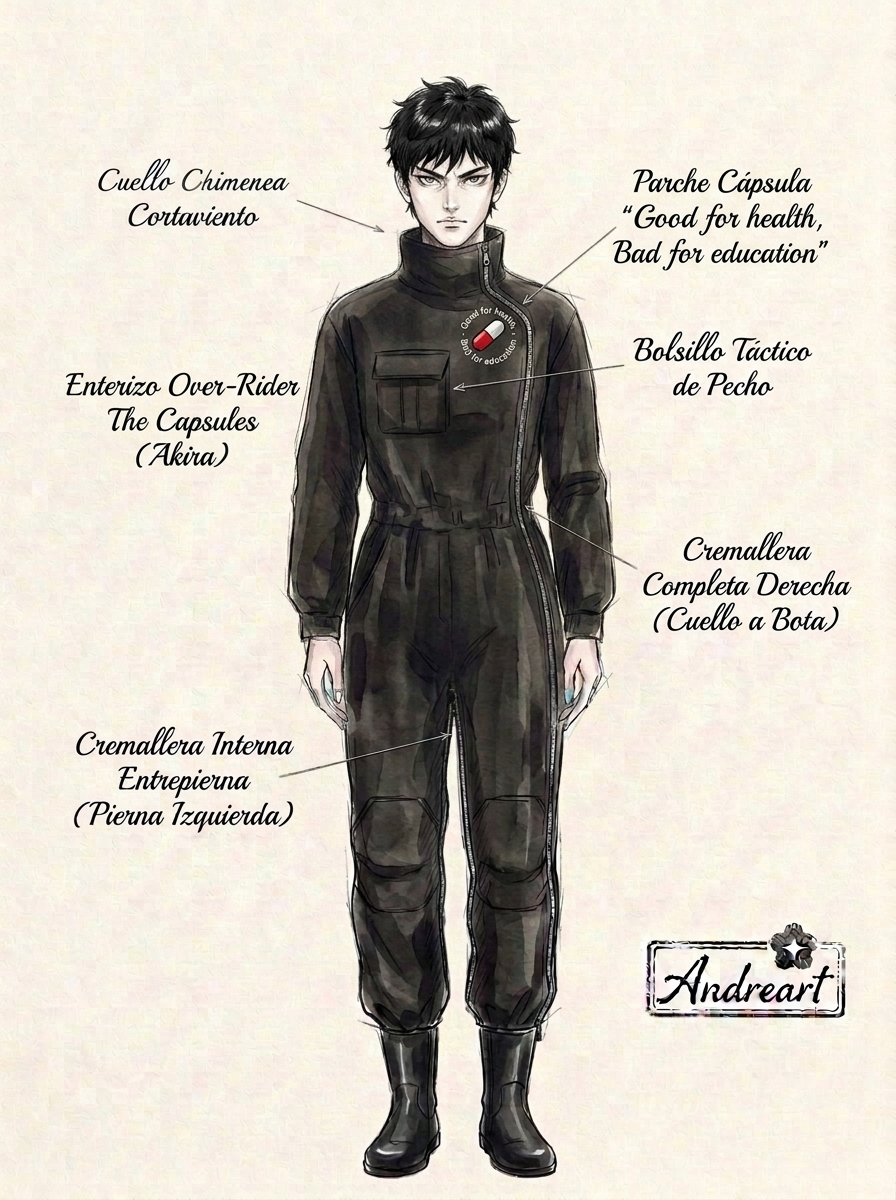
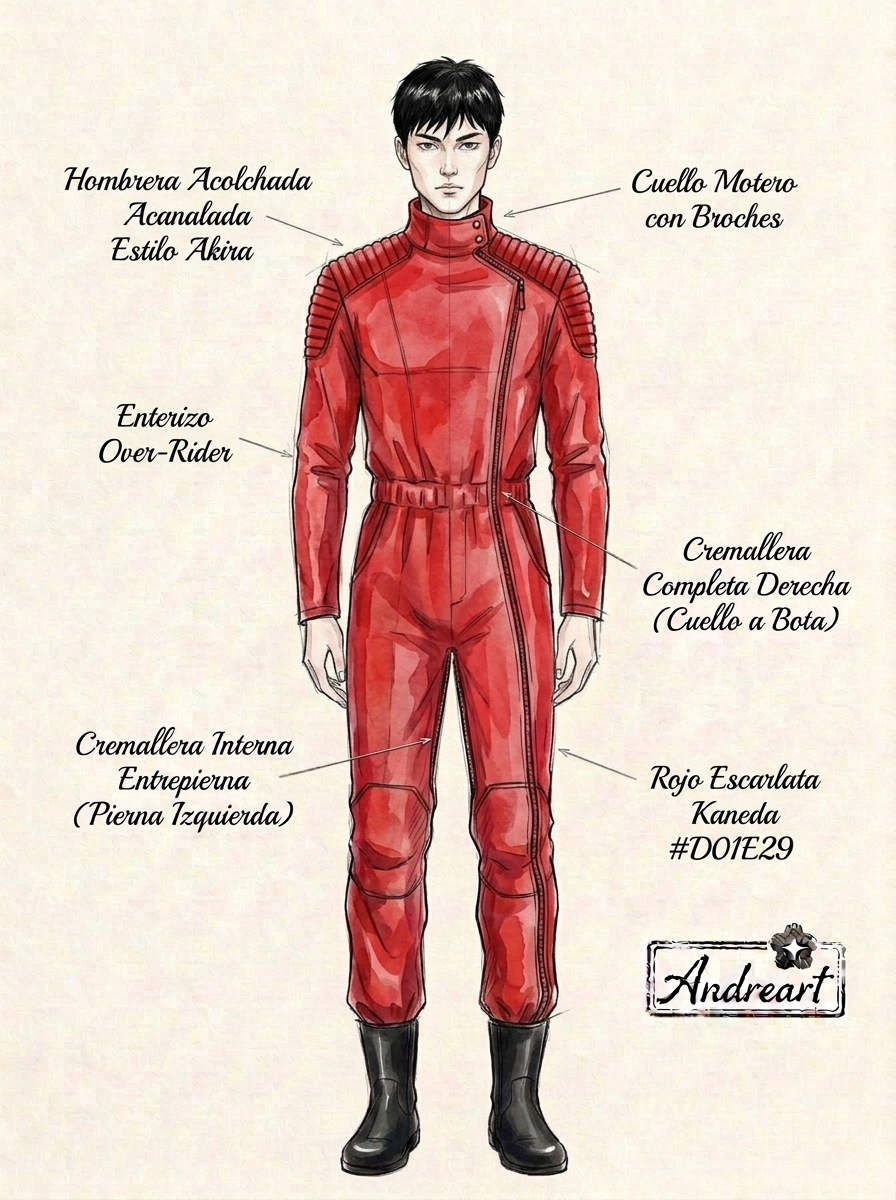
feat(over-rider-bosozoku): regenerar figurines The Capsules (Akira) en rojo escarlata frente y espalda
- Actualizar 03-figurin-capsules-akira-frente.jpg en Rojo Escarlata Kaneda (#D01E29) con hombreras acanaladas estilo chaqueta Akira
- Incorporar 04-figurin-capsules-akira-espalda.jpg con gran emblema dorsal de la píldora 'Good for health, Bad for education' y drop-seat
- Registrar referencia refe-kaneda-akira-suit.jpg en references/
- Archivar versión negra previa en assets/.archive/
- Sincronizar SPEC.md, manifest.json e index.ts

diff --git a/Andreart Brain/01 Brand Context/Colecciones/Over-Rider Bosozoku/index.ts b/Andreart Brain/01 Brand Context/Colecciones/Over-Rider Bosozoku/index.ts
@@ -57,8 +57,8 @@ export const GARMENTS: CollectionGarment[] = [
     name: 'Enterizo Over-Rider The Capsules',
     sku: 'ANDR-OVR-AKI-01',
     category: 'Prenda Enteriza Exterior (Oversuit)',
-    textile: 'Cordura / Nylon Oxford 600D impermeable con forro térmico capitonado desmontable',
-    fit: 'Corte ergonómico precurvado para moto, cremallera completa lateral derecha (cuello a bota), cremallera interna de entrepierna en pierna izquierda, drop-seat trasero y emblema cápsula Akira reflectivo'
+    textile: 'Cordura / Nylon Oxford 600D impermeable en Rojo Escarlata Kaneda (#D01E29) con forro térmico capitonado desmontable',
+    fit: 'Corte ergonómico precurvado para moto en rojo escarlata, hombreras acolchadas acanaladas estilo Akira, cremallera completa lateral derecha (cuello a bota), cremallera interna de entrepierna en pierna izquierda, drop-seat trasero y gran emblema dorsal de la píldora "Good for health, Bad for education"'
   }
 ];
 
@@ -93,15 +93,33 @@ export const ASSETS: Record<string, CollectionAsset> = {
     path: './assets/03-figurin-capsules-akira-frente.jpg',
     category: 'figurine',
     garment: 'Enterizo Over-Rider The Capsules',
-    view: 'frente-pasarela-hombre',
-    description: 'Figurín de autor a mano alzada en acuarela sobre papel marfil (#F6F4EE) con modelo masculino inspirado en Kaneda luciendo el enterizo técnico motero en Jet Black (#0D0D0E), parche The Capsules ("Good for health, Bad for education"), cremallera completa lateral derecha (cuello a bota), cremallera interna de entrepierna en pierna izquierda, llamadas técnicas y sello Andreart.',
-    sourceReference: './references/refe-vista-frontal-puesta.jpg, ./references/refe-apertura-total-capullo.jpg',
+    view: 'frente-pasarela-hombre-rojo',
+    description: 'Figurín de autor a mano alzada en acuarela roja escarlata (#D01E29) sobre papel marfil (#F6F4EE) con modelo masculino inspirado en Kaneda luciendo el enterizo técnico motero, hombreras acolchadas acanaladas estilo Akira, cremallera completa lateral derecha (cuello a bota), cremallera interna de entrepierna en pierna izquierda, llamadas técnicas y sello Andreart.',
+    sourceReference: './references/refe-kaneda-akira-suit.jpg, ./references/refe-vista-frontal-puesta.jpg',
+    status: 'active',
+    approved: true
+  },
+  '04-figurin-capsules-akira-espalda': {
+    id: '04-figurin-capsules-akira-espalda',
+    filename: '04-figurin-capsules-akira-espalda.jpg',
+    path: './assets/04-figurin-capsules-akira-espalda.jpg',
+    category: 'figurine',
+    garment: 'Enterizo Over-Rider The Capsules',
+    view: 'espalda-dorsal-hombre-rojo',
+    description: 'Figurín de autor a mano alzada en acuarela dorsal mostrando a gran escala en el centro de la espalda el emblemático diseño circular de la píldora cápsula con el lema "Good for health, Bad for education", hombreras acanaladas, canesú con capota escamoteable y solapa lumbar drop-seat con banda reflectiva.',
+    sourceReference: './references/refe-kaneda-akira-suit.jpg, ./references/refe-dropseat-lumbar-1.jpg',
     status: 'active',
     approved: true
   }
 };
 
 export const REFERENCES: Record<string, CollectionReference> = {
+  'refe-kaneda-akira-suit': {
+    filename: 'refe-kaneda-akira-suit.jpg',
+    path: './references/refe-kaneda-akira-suit.jpg',
+    type: 'character-design-reference',
+    description: 'Referencia oficial de Shotaro Kaneda (Akira): traje y chaqueta en rojo escarlata, hombreras acolchadas acanaladas y cuello motero con broches provista por el usuario.'
+  },
   'refe-apertura-paso-1': {
     filename: 'refe-apertura-paso-1.jpg',
     path: './references/refe-apertura-paso-1.jpg',

diff --git a/Andreart Brain/01 Brand Context/Colecciones/Over-Rider Bosozoku/SPEC.md b/Andreart Brain/01 Brand Context/Colecciones/Over-Rider Bosozoku/SPEC.md
@@ -55,10 +55,10 @@ Diseñada para el motociclista contemporáneo que rechaza los uniformes genéric
 
 | Tono / Elemento | Código Hex | Aplicación Textil y Acabado | Función / Sentido en la Prenda |
 | :--- | :--- | :--- | :--- |
-| **Total Jet Black** | `#0D0D0E` | Cordura / Nylon Oxford 600D mate impermeable | Base estructural exterior monocromática de alta resistencia a la abrasión |
+| **Total Jet Black** | `#0D0D0E` | Cordura / Nylon Oxford 600D mate impermeable | Base estructural exterior para la Edición Toman Shodai (Tokyo Revengers) |
+| **Rojo Escarlata Kaneda** | `#D01E29` | Cordura / Nylon Oxford 600D impermeable rojo | Base estructural exterior completa para la Edición The Capsules (Akira) |
 | **Negro Azabache Satinado** | `#121214` | Tafetán de microfibra acolchado en rombos (forro) | Forro térmico interior desmontable suave al deslizamiento |
 | **Gris Reflectivo Vial** | `#9E9E9E` / `#FFFFFF` | Serigrafía reflectiva microprismática de alta densidad | Kanjis Toman, cápsula Akira y franja horizontal lumbar de seguridad nocturna |
-| **Rojo Escarlata Akira** | `#D01E29` | Acentos en la mitad de la píldora y vivos de contraste | Homenaje visual a la chaqueta de Kaneda / The Capsules |
 | **Níquel Oscuro Mate** | `#262628` | Cremalleras impermeables termoselladas y tiradores | Herrajes técnicos discretos anticorrosión |
 
 ---
@@ -67,8 +67,8 @@ Diseñada para el motociclista contemporáneo que rechaza los uniformes genéric
 
 | Modelo | Referencia SKU | Inspiración / Universo | Gráficos y Personalización | Arquitectura y Funcionalidad |
 | :--- | :--- | :--- | :--- | :--- |
-| **Enterizo Over-Rider Toman Shodai** | `ANDR-OVR-TOM-01` | Manjirō Sano / Tokyo Revengers | Espalda: Kanjis oficiales Toman ("初代", "東京卍會", "天上天下唯我独尊") en serigrafía reflectiva. Mangas: "初代総長" vertical. | Sistema de apertura dual, cremalleras de bota completa, drop-seat lumbar abatible y forro térmico desmontable. |
-| **Enterizo Over-Rider The Capsules** | `ANDR-OVR-AKI-01` | Akira / Mitsuru Kuwata & Kaneda | Espalda: Emblema circular de la píldora bicolor con leyenda *"Good for health, Bad for education"*. Pecho: Parche técnico cápsula. | Idéntica arquitectura de apertura dual rápida, cuello chimenea con capota escamoteable y drop-seat trasero. |
+| **Enterizo Over-Rider Toman Shodai** | `ANDR-OVR-TOM-01` | Manjirō Sano / Tokyo Revengers | Base Total Jet Black (#0D0D0E). Espalda: Kanjis oficiales Toman ("初代", "東京卍會", "天上天下唯我独尊") en serigrafía reflectiva. Mangas: "初代総長" vertical. | Cremallera completa lateral derecha (cuello a bota), cremallera interna de entrepierna en pierna izquierda, drop-seat trasero y forro térmico desmontable. |
+| **Enterizo Over-Rider The Capsules** | `ANDR-OVR-AKI-01` | Akira / Mitsuru Kuwata & Shotaro Kaneda | Base Rojo Escarlata Kaneda (#D01E29). Hombreras acolchadas acanaladas estilo Akira. Espalda: Gran emblema circular de la píldora bicolor con leyenda *"Good for health, Bad for education"*. | Cremallera completa lateral derecha (cuello a bota), cremallera interna de entrepierna en pierna izquierda, cuello motero con broches, drop-seat lumbar y forro térmico desmontable. |
 
 ---
 
@@ -105,9 +105,13 @@ Diseñada para el motociclista contemporáneo que rechaza los uniformes genéric
 
 ### Enterizo Over-Rider The Capsules (Akira)
 
-#### Vista Frontal (Figurín Protagónico Masculino)
+#### Vista Frontal (Figurín Protagónico Masculino en Rojo Escarlata)
 ![[01 Brand Context/Colecciones/Over-Rider Bosozoku/assets/03-figurin-capsules-akira-frente.jpg]]
-*Figurín Frontal (The Capsules Akira v1.0):* Croquis de atelier a mano alzada sobre papel marfil texturizado (#F6F4EE) con trazo a lápiz grafito fino, entintado a pluma de tinta china y aguada de acuarela translúcida en negro azabache mate (#0D0D0E): modelo masculino estilizado de alta costura inspirado en Shotaro Kaneda / Mitsuru Kuwata luciendo el enterizo técnico motero con cuello chimenea cortaviento, cremallera continua completa en el lateral derecho desde el cuello hasta la bota, cremallera técnica interna en la entrepierna de la pierna izquierda, bolsillo táctico de fuelle en pecho, el emblemático parche de la píldora cápsula bicolor (rojo escarlata y blanco) con el lema *"Good for health, Bad for education"*, llamadas técnicas caligráficas y el sello oficial de autor Andreart.
+*Figurín Frontal (The Capsules Akira v1.1):* Croquis de atelier a mano alzada sobre papel marfil texturizado (#F6F4EE) con trazo a lápiz grafito fino, entintado a pluma de tinta china y aguada de acuarela translúcida en Rojo Escarlata Kaneda (#D01E29): modelo masculino estilizado de alta costura inspirado en Shotaro Kaneda luciendo el enterizo técnico motero con cuello motero alto con broches, hombreras acolchadas acanaladas/estriadas horizontales estilo chaqueta de Akira, cremallera continua completa en el lateral derecho desde el cuello hasta la bota, cremallera técnica interna en la entrepierna de la pierna izquierda, bolsillos diagonales con tapeta, llamadas técnicas caligráficas y el sello oficial de autor Andreart.
+
+#### Vista Dorsal / Espalda (Figurín Protagónico Masculino con Emblema de la Píldora)
+![[01 Brand Context/Colecciones/Over-Rider Bosozoku/assets/04-figurin-capsules-akira-espalda.jpg]]
+*Figurín Dorsal (The Capsules Akira v1.1):* Vista posterior de cuerpo entero mostrando en el centro de la espalda a gran escala el emblemático diseño circular de la píldora cápsula bicolor (rojo escarlata y blanco) con el lema *"Good for health, Bad for education"*, canesú sastre con compartimento para capota escamoteable, hombreras acanaladas visibles desde atrás, solapa lumbar abatible (*drop-seat*) con franja reflectiva y cremallera horizontal, llamadas técnicas caligráficas y el sello oficial Andreart sobre papel marfil.
 
 ---
 
@@ -117,7 +121,8 @@ Diseñada para el motociclista contemporáneo que rechaza los uniformes genéric
 | :--- | :--- | :--- | :--- | :--- |
 | `01-figurin-toman-shodai-frente` | `01-figurin-toman-shodai-frente.jpg` | Figurín Protagónico (Frente) | Enterizo Over-Rider Toman Shodai | Moldería atelier (Tokyo Manji Gang / Mikey) |
 | `02-figurin-toman-shodai-espalda` | `02-figurin-toman-shodai-espalda.jpg` | Figurín Protagónico (Espalda) | Enterizo Over-Rider Toman Shodai | Moldería atelier (Kanjis Toman & Drop-Seat) |
-| `03-figurin-capsules-akira-frente` | `03-figurin-capsules-akira-frente.jpg` | Figurín Protagónico (Frente Masculino) | Enterizo Over-Rider The Capsules | Moldería atelier (Akira / Kaneda & Kuwata) |
+| `03-figurin-capsules-akira-frente` | `03-figurin-capsules-akira-frente.jpg` | Figurín Protagónico (Frente Masculino Rojo) | Enterizo Over-Rider The Capsules | `references/refe-kaneda-akira-suit.jpg` |
+| `04-figurin-capsules-akira-espalda` | `04-figurin-capsules-akira-espalda.jpg` | Figurín Protagónico (Espalda Masculino Rojo) | Enterizo Over-Rider The Capsules | `references/refe-kaneda-akira-suit.jpg` + Píldora Akira |
 
 ---
 
@@ -125,6 +130,7 @@ Diseñada para el motociclista contemporáneo que rechaza los uniformes genéric
 
 | Archivo de Referencia | Descripción Técnica y Utilidad de Patronaje |
 | :--- | :--- |
+| `refe-kaneda-akira-suit.jpg` | Referencia oficial de Shotaro Kaneda (Akira): traje y chaqueta en rojo escarlata, hombreras acolchadas acanaladas y cuello motero con broches. |
 | `refe-apertura-paso-1.jpg` | Demostración de colocación rápida: apertura inicial envolvente sin descalzarse. |
 | `refe-apertura-paso-2-forro.jpg` | Vista interior del forro acolchado capitonado en rombos y solapa frontal. |
 | `refe-apertura-paso-3-pierna.jpg` | Cierre de cremallera de pierna continua sobre pantalón y zapatilla urbana. |
